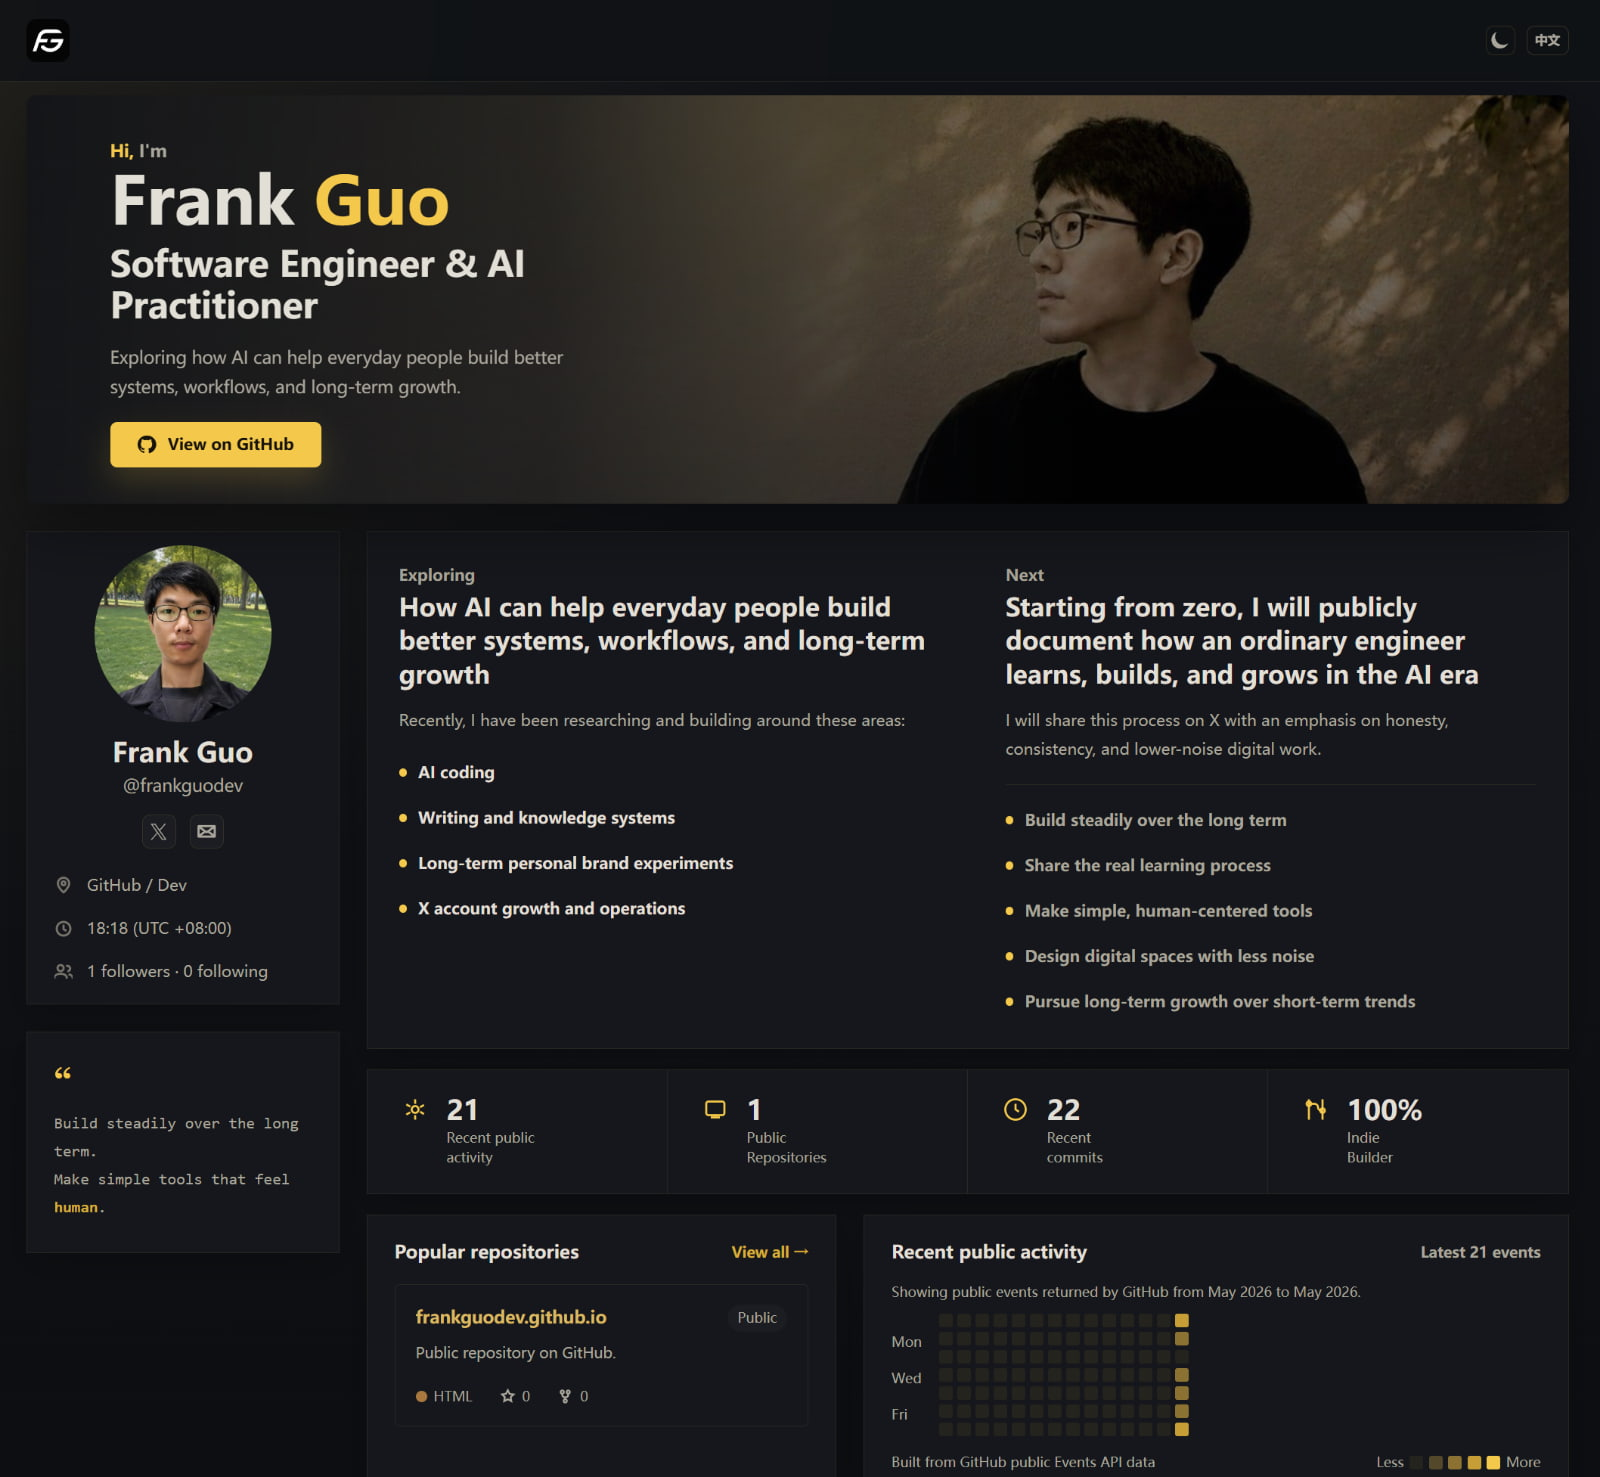
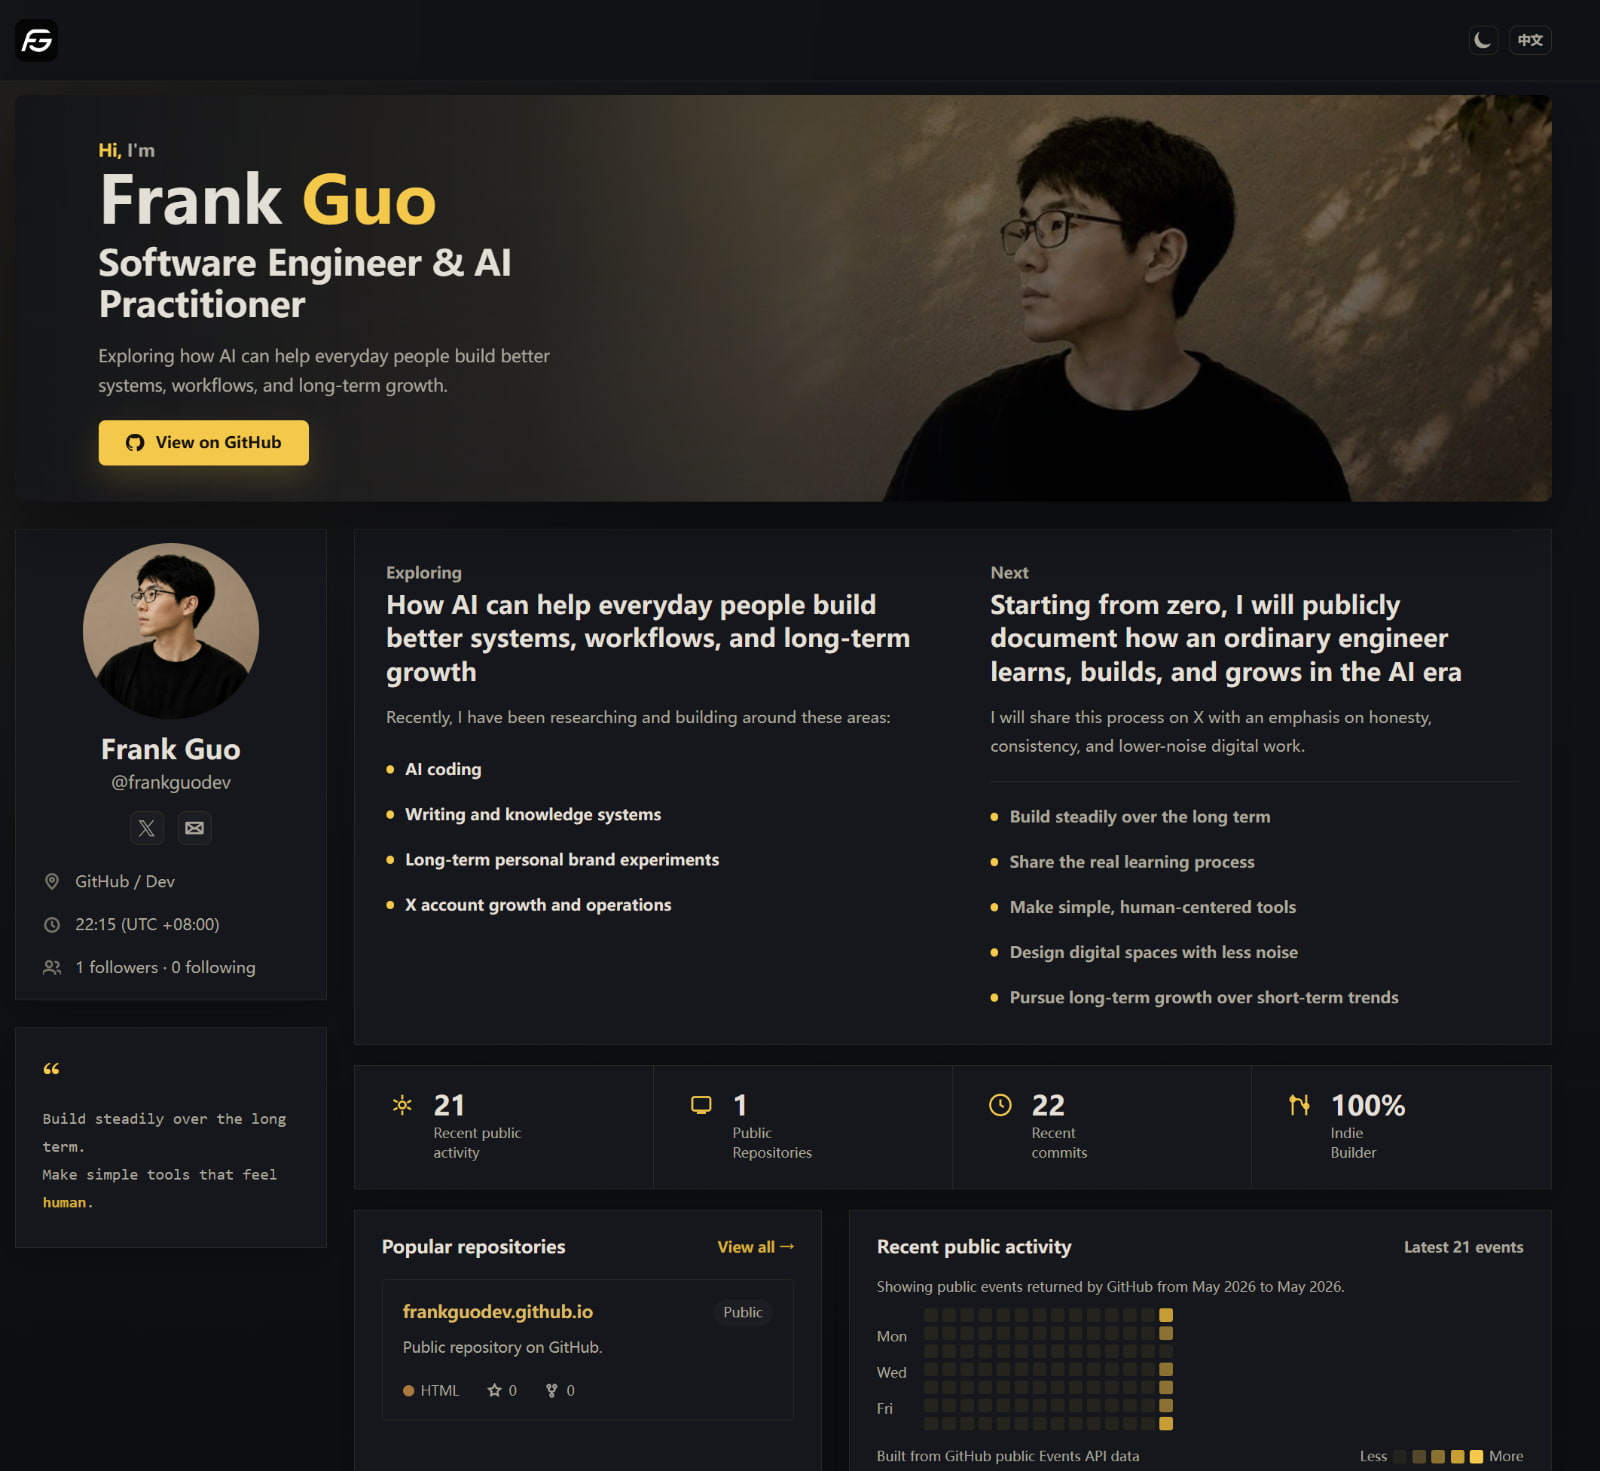
优化

diff --git a/index.html b/index.html
@@ -40,7 +40,7 @@
   <link rel="alternate" hreflang="x-default" href="https://frankguo.dev/">
   <link rel="me" href="https://github.com/frankguodev">
   <link rel="preload" as="image" href="/public/hero-bg-dark.jpg" fetchpriority="high">
-  <link rel="preload" as="image" href="/public/owner-image-512.jpg" imagesrcset="/public/owner-image-512.jpg 512w, /public/owner-image-1024.jpg 1024w, /public/owner_image.jpg 1086w" imagesizes="(max-width: 760px) 118px, 156px" fetchpriority="high">
+  <link rel="preload" as="image" href="/public/frank-guo-avatar.jpg" fetchpriority="high">
   <link rel="icon" type="image/svg+xml" href="/public/favicon.svg">
   <link rel="icon" href="/public/favicon.ico" sizes="any">
   <link rel="icon" type="image/png" href="/public/favicon-32x32.png" sizes="32x32">
@@ -56,7 +56,7 @@
           "@id": "https://frankguo.dev/#person",
           "name": "Frank Guo",
           "url": "https://frankguo.dev/",
-          "image": "https://frankguo.dev/public/owner-image-1024.jpg",
+          "image": "https://frankguo.dev/public/frank-guo-avatar.jpg",
           "jobTitle": "Software Engineer and AI Practitioner",
           "description": "Frank Guo is a software engineer exploring how AI can help everyday people build better systems, workflows, and long-term growth.",
           "sameAs": [
@@ -1326,7 +1326,7 @@
     <div class="layout">
       <aside>
         <section class="panel profile" aria-label="Profile">
-          <img class="avatar" id="profile-avatar" src="/public/owner-image-512.jpg" srcset="/public/owner-image-512.jpg 512w, /public/owner-image-1024.jpg 1024w, /public/owner_image.jpg 1086w" sizes="(max-width: 760px) 118px, 156px" alt="Frank Guo" width="156" height="156">
+          <img class="avatar" id="profile-avatar" src="/public/frank-guo-avatar.jpg" alt="Frank Guo" width="156" height="156">
           <div>
             <h2 id="profile-name">Frank Guo</h2>
             <p class="handle">@frankguodev</p>
@@ -1573,10 +1573,6 @@
       $("#profile-location").textContent = siteConfig.location;
       $("#profile-follow").textContent = `${compact(user.followers)} followers · ${compact(user.following)} following`;
       $("#stat-repos").textContent = compact(user.public_repos);
-      if (user.avatar_url) {
-        $("#profile-avatar").src = user.avatar_url;
-        $("#profile-avatar").removeAttribute("srcset");
-      }
     }
 
     function renderRepos(repos) {

diff --git a/zh/index.html b/zh/index.html
@@ -40,7 +40,7 @@
   <link rel="alternate" hreflang="x-default" href="https://frankguo.dev/">
   <link rel="me" href="https://github.com/frankguodev">
   <link rel="preload" as="image" href="/public/hero-bg-dark.jpg" fetchpriority="high">
-  <link rel="preload" as="image" href="/public/owner-image-512.jpg" imagesrcset="/public/owner-image-512.jpg 512w, /public/owner-image-1024.jpg 1024w, /public/owner_image.jpg 1086w" imagesizes="(max-width: 760px) 118px, 156px" fetchpriority="high">
+  <link rel="preload" as="image" href="/public/frank-guo-avatar.jpg" fetchpriority="high">
   <link rel="icon" type="image/svg+xml" href="/public/favicon.svg">
   <link rel="icon" href="/public/favicon.ico" sizes="any">
   <link rel="icon" type="image/png" href="/public/favicon-32x32.png" sizes="32x32">
@@ -56,7 +56,7 @@
           "@id": "https://frankguo.dev/#person",
           "name": "Frank Guo",
           "url": "https://frankguo.dev/",
-          "image": "https://frankguo.dev/public/owner-image-1024.jpg",
+          "image": "https://frankguo.dev/public/frank-guo-avatar.jpg",
           "jobTitle": "软件工程师与 AI 实践者",
           "description": "Frank Guo 是一名正在探索 AI 如何帮助普通人建立更好系统、工作流与长期成长的软件工程师。",
           "sameAs": [
@@ -1326,7 +1326,7 @@
     <div class="layout">
       <aside>
         <section class="panel profile" aria-label="个人资料">
-          <img class="avatar" id="profile-avatar" src="/public/owner-image-512.jpg" srcset="/public/owner-image-512.jpg 512w, /public/owner-image-1024.jpg 1024w, /public/owner_image.jpg 1086w" sizes="(max-width: 760px) 118px, 156px" alt="Frank Guo" width="156" height="156">
+          <img class="avatar" id="profile-avatar" src="/public/frank-guo-avatar.jpg" alt="Frank Guo" width="156" height="156">
           <div>
             <h2 id="profile-name">Frank Guo</h2>
             <p class="handle">@frankguodev</p>
@@ -1573,10 +1573,6 @@
       $("#profile-location").textContent = siteConfig.location;
       $("#profile-follow").textContent = `${compact(user.followers)} 位关注者 · ${compact(user.following)} 正在关注`;
       $("#stat-repos").textContent = compact(user.public_repos);
-      if (user.avatar_url) {
-        $("#profile-avatar").src = user.avatar_url;
-        $("#profile-avatar").removeAttribute("srcset");
-      }
     }
 
     function renderRepos(repos) {
